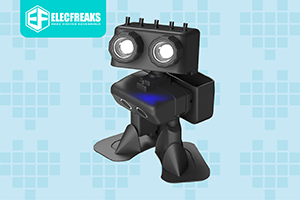
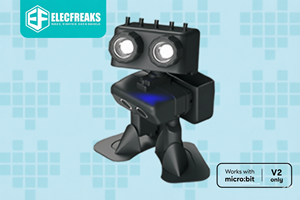
Restore microbit V2 only approval metadata

diff --git a/robotpu.ts b/robotpu.ts
@@ -898,8 +898,9 @@ export class RobotPu {
         if (Math.abs(this.bodyPitch2) > 12) {
             this.setCt([5], [-this.bodyPitch2]);
         }
-        this.pr.stateTargets[this.restState][5] = 90;
-        return this.wk.move(this.pr, [this.restState], [0, 1, 2, 3, 4, 5], 1, [], 0.5);
+        let sl = input.soundLevel();
+        this.pr.stateTargets[this.restState][5] = 90 - sl * 0.3;
+        return this.wk.move(this.pr, [this.restState], [0, 1, 2, 3, 4, 5], 1 + sl * 0.001, [], 0.5);
     }
 
     /**
@@ -1182,8 +1183,10 @@ export class RobotPu {
 
         // 2. Check for "Wake Up" triggers:
         // - High acceleration (maxG > gThreshold)
+        // - Loud sound detected
         // - Sudden tilt change > 20 degrees
         if (this.maxG > this.gThreshold ||
+            input.soundLevel() > 128 || // Check if sound level is "loud" (0-255)
             roll_delta > 20 ||
             pitch_delta > 20) {
 
@@ -1215,7 +1218,7 @@ export class RobotPu {
         this.np.clear();
         this.np.show();
 
-        // 4. Monitor for wake-up triggers such as motion or tilt changes
+        // 4. Monitor for wake-up triggers (e.g., sound or touch)
         if (this.checkWakeup() == 1) {
             // Return to Idle/Standby state
             this.gst = 0;
@@ -1463,13 +1466,16 @@ export class RobotPu {
         this.np.show();
     }
     /**
- * Makes the robot dance with self-balance using a fixed rhythm.
+ * Makes the robot dance with self-balance based on sound analysis.
  */
     public dance(): number {
         let ts = control.millis();
-        let fixedBeat = ts - this.lastLowBeat > this.music.period * Math.randomRange(8, 16);
+        let ms = input.soundLevel();
 
-        // 1. Pulse LEDs and flip wiggle direction on a fixed rhythm
+        // 1. Check for a musical beat using the MusicLib helper
+        let il = this.music.isABeat(ts, ms, 1.1);
+
+        // 2. High-beat logic: Pulse LEDs and flip wiggle direction
         if (ts - this.lastHIghBeat > this.music.period * 0.5) {
             this.danceYawWiggle *= -1;
             this.dancePitchWiggle *= -1;
@@ -1477,14 +1483,14 @@ export class RobotPu {
             this.lastHIghBeat = ts;
         }
 
-        // 2. Change the dance move routine on a slower fixed rhythm
-        if (fixedBeat) {
+        // 3. Low-beat logic: Change the dance move routine
+        if (il && (ts - this.lastLowBeat > this.music.period * Math.randomRange(8, 16))) {
             // Pick a new move from the approved dance state list
             this.danceState = [this.pr.danceOkStates[Math.randomRange(0, this.pr.danceOkStates.length - 1)]];
             this.lastLowBeat = ts;
         }
 
-        // 3. Balance and tilt compensation
+        // 4. Balance and tilt compensation
         this.balanceParam();
         let ft = Math.min(12.0, Math.max(-12.0, this.rl * 0.8 + this.danceYawWiggle * 0.2));
         if (Math.abs(ft) < 8) {
@@ -1492,17 +1498,18 @@ export class RobotPu {
         }
         let lt = ft + this.danceYawWiggle;
 
-        // 4. Apply control vectors to servos
+        // 5. Apply control vectors to servos
+        // Servo 5 (head/body pitch) reacts to sound volume
         this.setCt([0, 1, 2, 3, 4, 5],
-            [ft, lt, ft, lt, this.rl, this.dancePitchWiggle]);
+            [ft, lt, ft, lt, this.rl, this.dancePitchWiggle - ms * 0.001]);
 
-        // 5. Dynamic speed adjustment
+        // 6. Dynamic speed adjustment
         this.danceSpeed = Math.min(2.5, this.danceSpeed * 1.015);
         if (this.maxG > 1800) { // If shaking too hard, slow down
             this.danceSpeed *= 0.9;
         }
 
-        // 6. Execute the movement via the WK instance
+        // 7. Execute the movement via the WK instance
         return this.wk.move(this.pr, this.danceState, [0, 1, 2, 3], this.danceSpeed, [4, 5], this.danceSpeed);
     }
 

diff --git a/test.ts b/test.ts
@@ -4,14 +4,14 @@
  * Pass criteria:
  * 1. The project compiles in MakeCode without TypeScript or blocks errors.
  * 2. In the simulator, it runs without unhandled runtime exceptions.
- * 3. On a micro:bit V1 or V2 with the PU Robot connected:
+ * 3. On a micro:bit V2 with the PU Robot connected:
  *    - Button A moves the foot servos.
  *    - Button B runs the greet action and then stops it.
  *    - Button A+B sends radio values and a short text message.
  *
  * Notes:
  * - Sensor values may be 0 or placeholder values if robot hardware is absent.
- * - This extension supports micro:bit V1 and V2.
+ * - This extension is micro:bit V2 only.
  */
 
 robotPu.setServoTrim(0, 0, 0, 0, 0, 0)

diff --git a/README.md b/README.md
@@ -8,11 +8,9 @@ The PU Robot kit is available from the [ELECFREAKS store](https://shop.elecfreak
 
 ## micro:bit compatibility
 
-This extension supports **micro:bit V1 and micro:bit V2**.
+> Using these blocks requires the micro:bit V2 hardware. micro:bit V1 will display the 927 error code.
 
-The robot blocks avoid version-specific hardware APIs, so projects can compile for both micro:bit hardware versions. Sound-responsive behavior that depended on the micro:bit V2 microphone has been removed and replaced with fixed movement rhythms.
-
-For approval and classroom use, please present this package as compatible with **micro:bit V1 and micro:bit V2** in the repository description, icon, README, and product documentation.
+This extension is **micro:bit (V2) only**.
 
 ## What teachers can do with this extension
 
